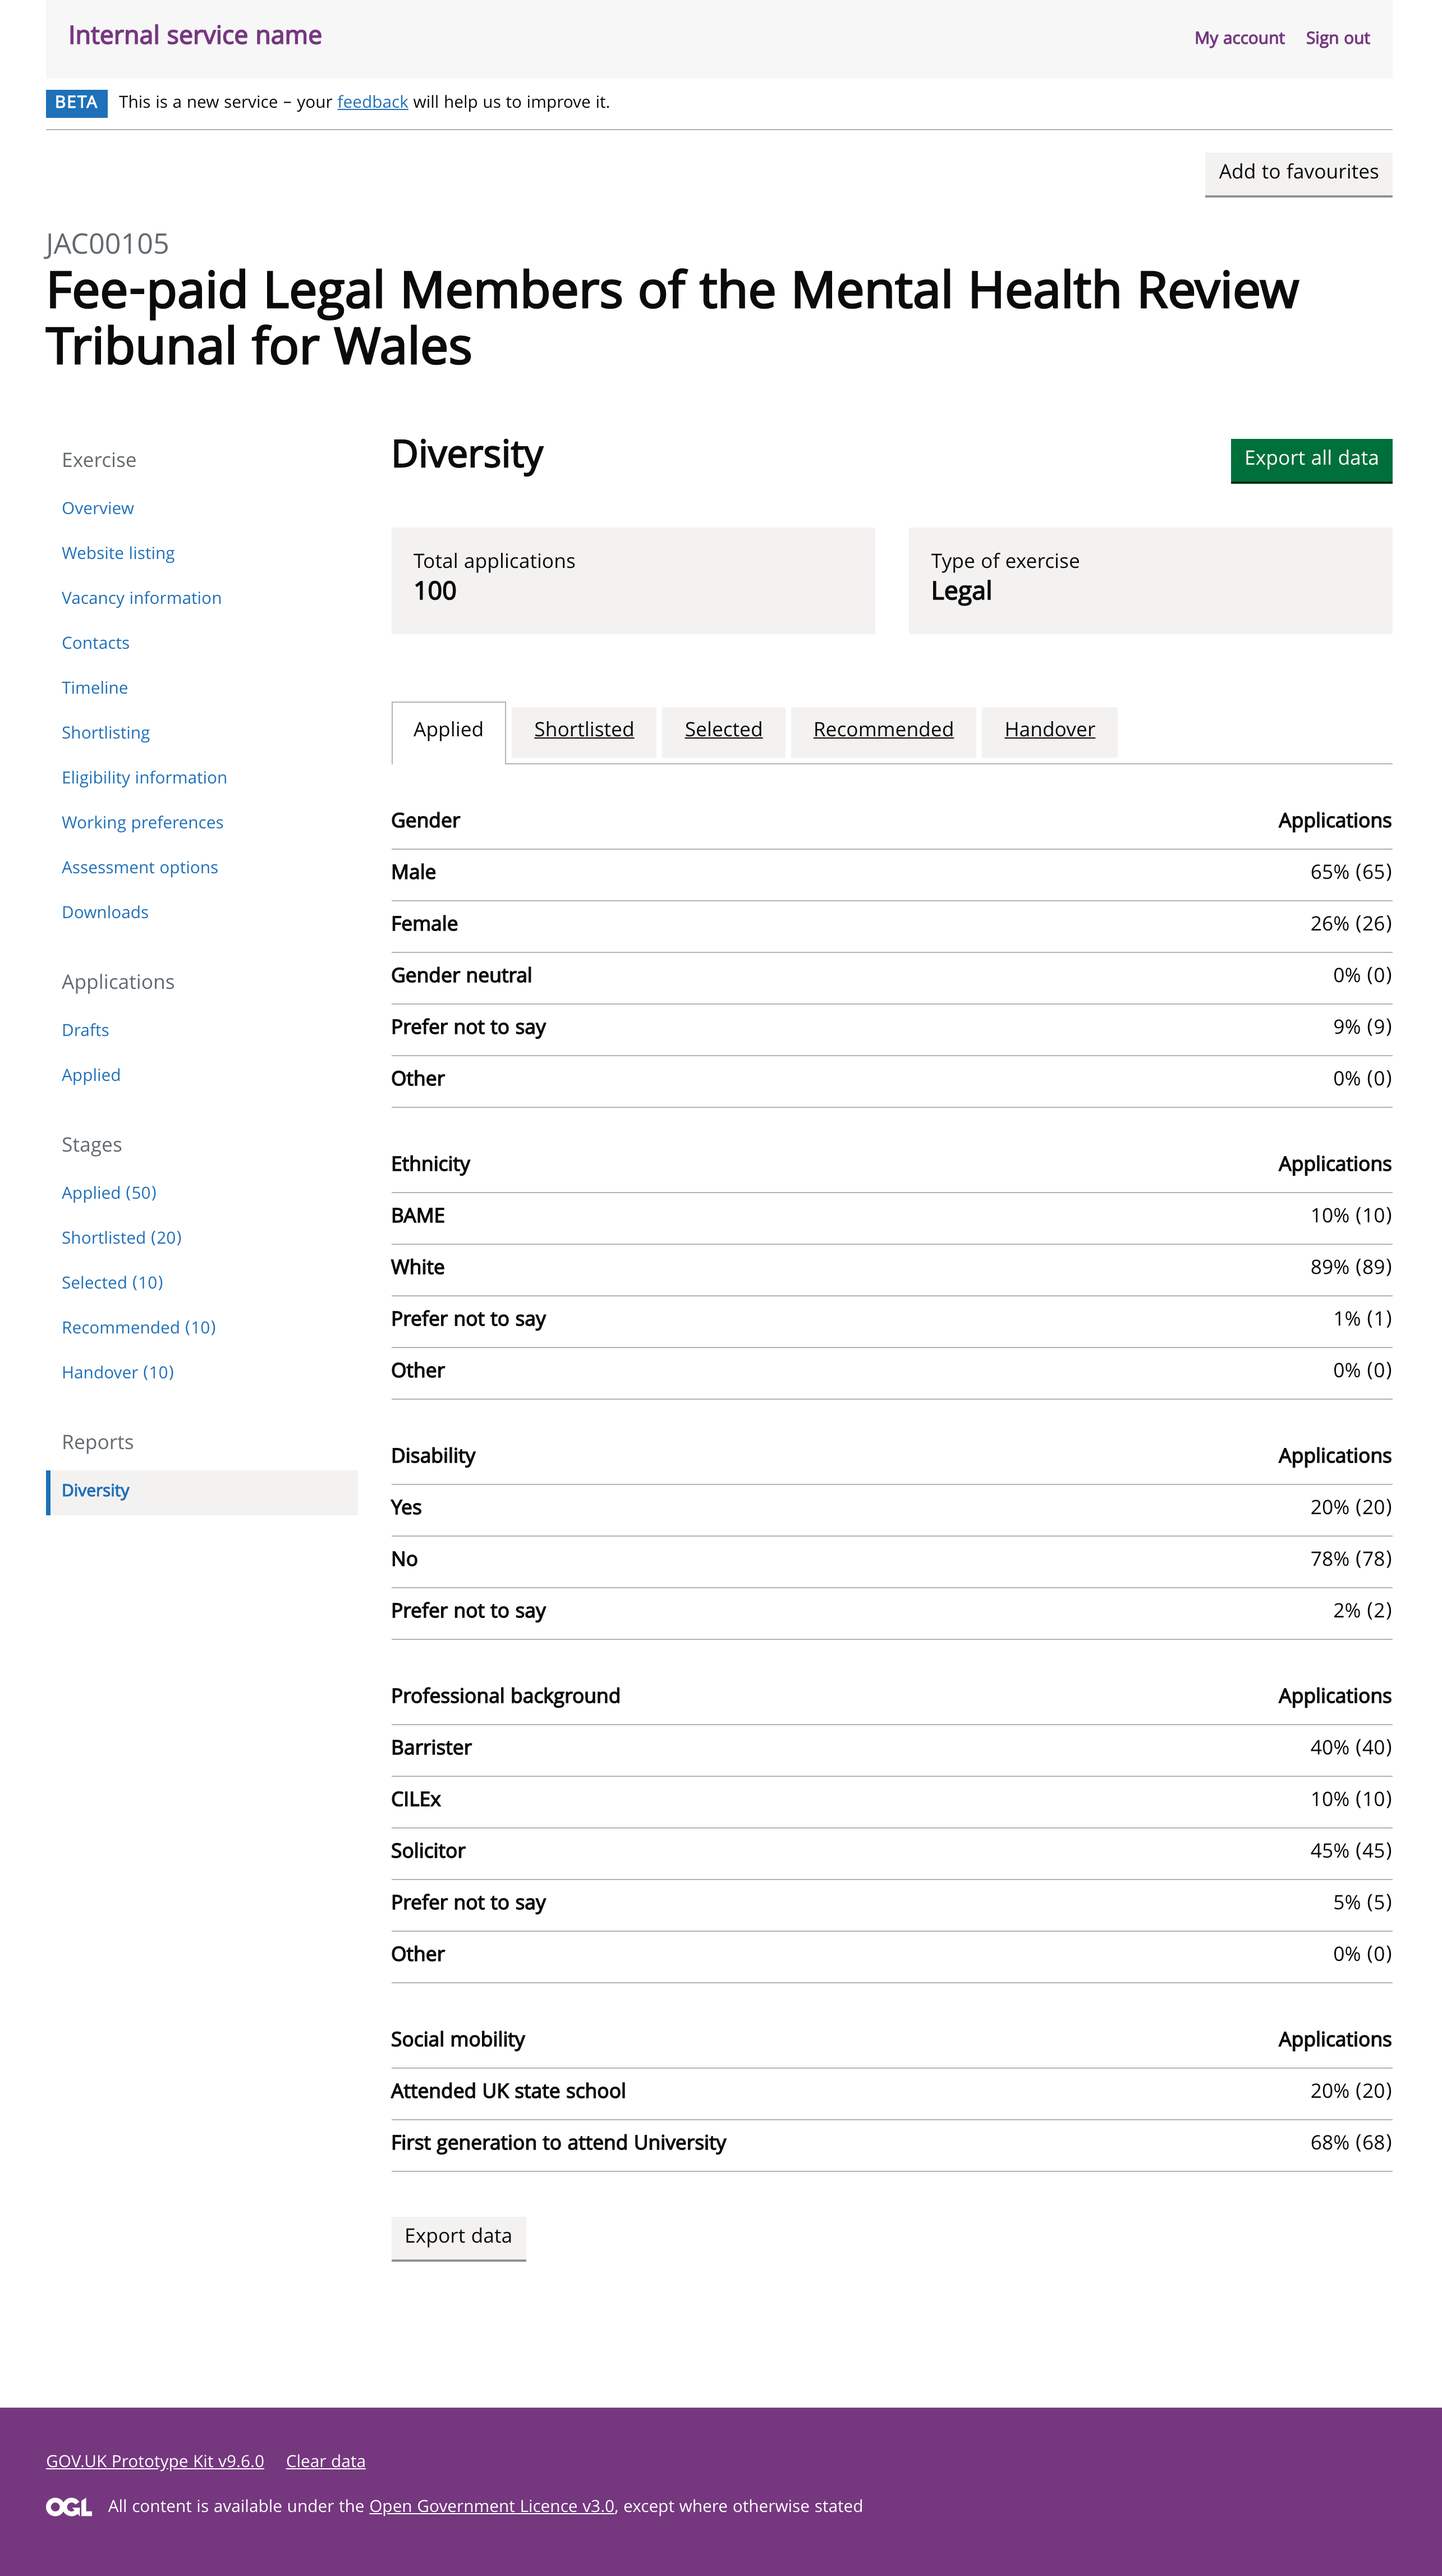
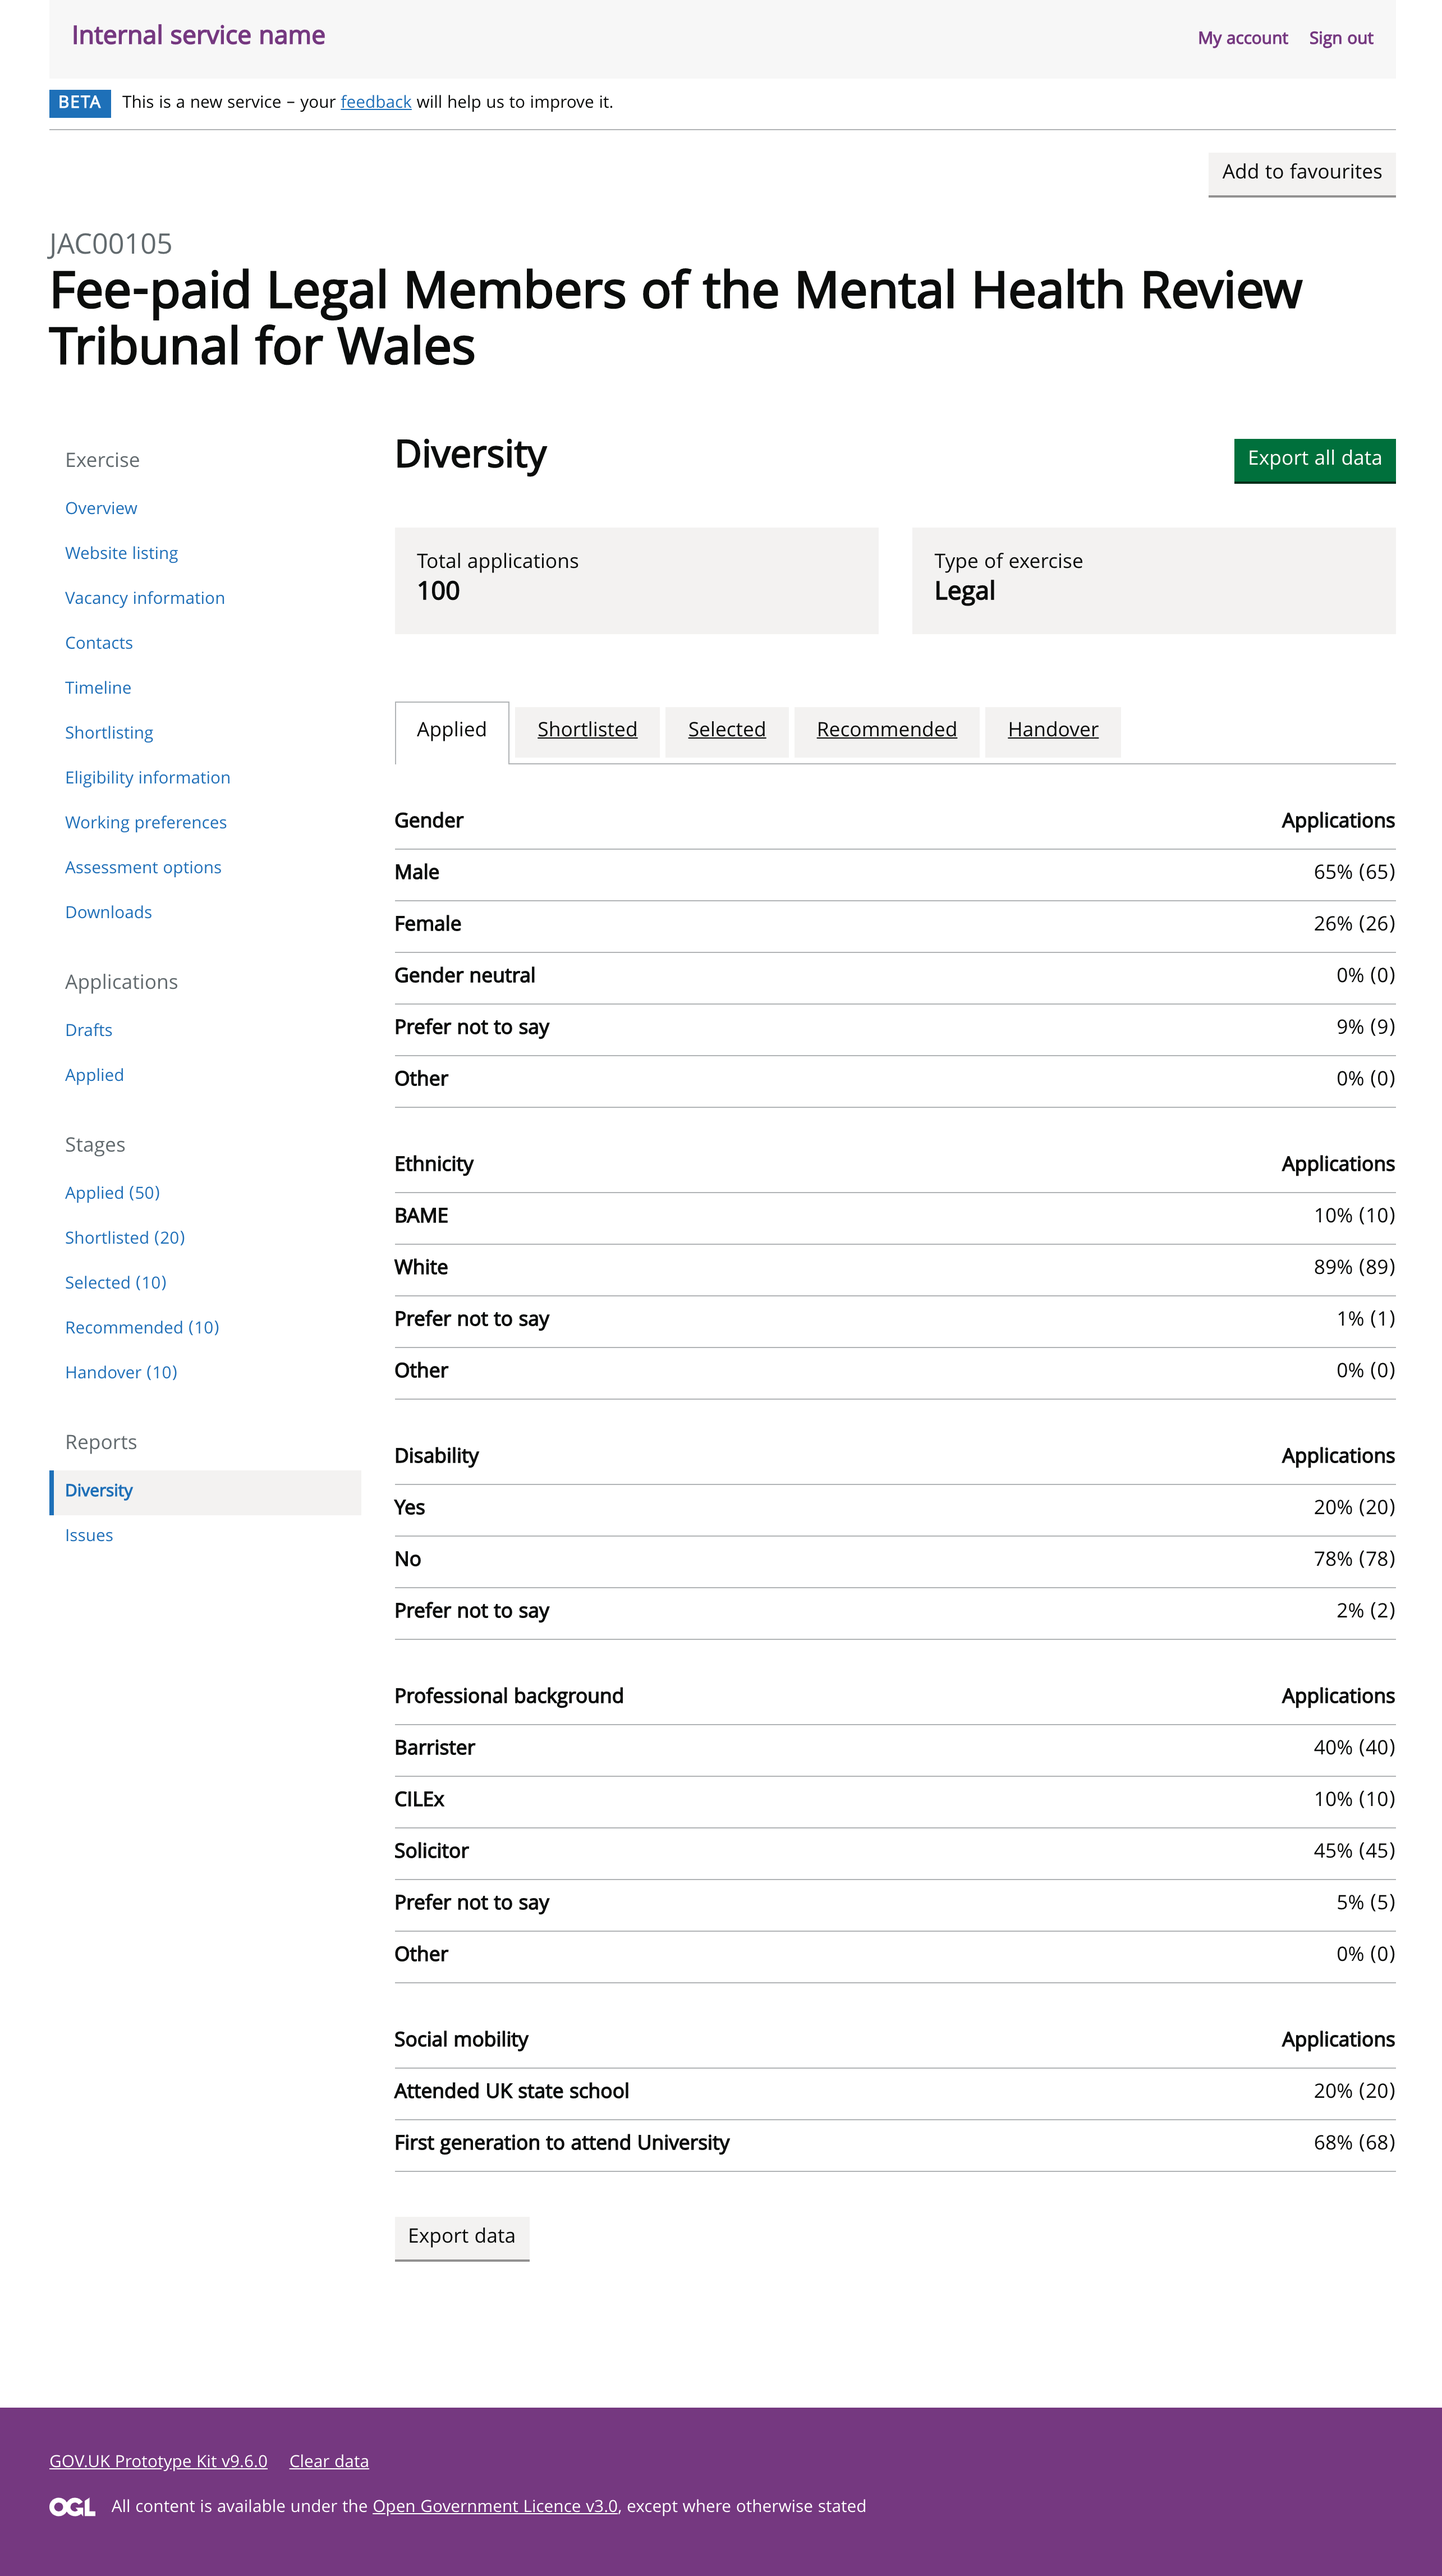
Updates to prototype

diff --git a/app/views/view-reports/v1/applied-jac00105-abc0001.html b/app/views/view-reports/v1/applied-jac00105-abc0001.html
@@ -183,14 +183,14 @@
 						<div class="govuk-summary-list__row">
 							<dt class="govuk-summary-list__key no-border govuk-!-width-two-thirds">&nbsp;</dt>
 							<dd class="govuk-summary-list__value">
-								<p class="govuk-body govuk-!-font-weight-bold">Date</p>
+								<p class="govuk-body govuk-!-font-weight-bold govuk-!-margin-bottom-0">Date</p>
 								<p class="govuk-body">9 March 2017</p>
 							</dd>
 						</div>
 						<div class="govuk-summary-list__row">
 							<dt class="govuk-summary-list__key govuk-!-width-two-thirds">&nbsp;</dt>
 							<dd class="govuk-summary-list__value">
-								<p class="govuk-body govuk-!-font-weight-bold">Declaration</p>
+								<p class="govuk-body govuk-!-font-weight-bold govuk-!-margin-bottom-0">Declaration</p>
 								<p class="govuk-body">SP30 3 penalty points and a fixed fine of £125.</p>
 							</dd>
 						</div>
@@ -500,6 +500,14 @@
 				</div>
 				<!-- Issues -->
 				<div class="govuk-tabs__panel" id="issues">
+
+					{% if data['add-comment'] %}
+					<div class="govuk-inset-text">
+						<p class="govuk-body">{{ data['issue-character-abc0001'] }}</p>
+					</div>
+					<p class="govuk-body">{{ data['add-comment'] }}</p>
+					<p class="govuk-body govuk-!-margin-bottom-9"><a href="comment">Edit comment</a></p>
+
 					<h3 class="govuk-heading-m">Character</h3>
 					<dl class="govuk-summary-list govuk-!-margin-bottom-9">
 						<div class="govuk-summary-list__row">
@@ -509,14 +517,43 @@
 						<div class="govuk-summary-list__row">
 							<dt class="govuk-summary-list__key no-border govuk-!-width-two-thirds">&nbsp;</dt>
 							<dd class="govuk-summary-list__value">
-								<p class="govuk-body govuk-!-font-weight-bold">Date</p>
+								<p class="govuk-body govuk-!-font-weight-bold govuk-!-margin-bottom-0">Date</p>
 								<p class="govuk-body">9 March 2017</p>
 							</dd>
 						</div>
 						<div class="govuk-summary-list__row">
 							<dt class="govuk-summary-list__key govuk-!-width-two-thirds">&nbsp;</dt>
 							<dd class="govuk-summary-list__value">
-								<p class="govuk-body govuk-!-font-weight-bold">Declaration</p>
+								<p class="govuk-body govuk-!-font-weight-bold govuk-!-margin-bottom-0">Declaration</p>
+								<p class="govuk-body">SP30 3 penalty points and a fixed fine of £125.</p>
+							</dd>
+						</div>
+					</dl>
+					<h3 class="govuk-heading-m">Eligibility</h3>
+					<dl class="govuk-summary-list govuk-!-margin-bottom-9">
+						<div class="govuk-summary-list__row">
+							<dt class="govuk-summary-list__key govuk-!-width-two-thirds">Citizenship</dt>
+							<dd class="govuk-summary-list__value">Canada</dd>
+						</div>
+					</dl>
+					{% else %}
+					<h3 class="govuk-heading-m">Character</h3>
+					<dl class="govuk-summary-list govuk-!-margin-bottom-9">
+						<div class="govuk-summary-list__row">
+							<dt class="govuk-summary-list__key no-border govuk-!-width-two-thirds">Has endorsements on their licence, or received any motoring fixed-penalty notices in the last 4 years</dt>
+							<dd class="govuk-summary-list__value">Yes</dd>
+						</div>
+						<div class="govuk-summary-list__row">
+							<dt class="govuk-summary-list__key no-border govuk-!-width-two-thirds">&nbsp;</dt>
+							<dd class="govuk-summary-list__value">
+								<p class="govuk-body govuk-!-font-weight-bold govuk-!-margin-bottom-0">Date</p>
+								<p class="govuk-body">9 March 2017</p>
+							</dd>
+						</div>
+						<div class="govuk-summary-list__row">
+							<dt class="govuk-summary-list__key govuk-!-width-two-thirds">&nbsp;</dt>
+							<dd class="govuk-summary-list__value">
+								<p class="govuk-body govuk-!-font-weight-bold govuk-!-margin-bottom-0">Declaration</p>
 								<p class="govuk-body">SP30 3 penalty points and a fixed fine of £125.</p>
 							</dd>
 						</div>
@@ -549,7 +586,8 @@
 							  </div>
 						</fieldset>
 					</div>
-					<button class="govuk-button" data-module="govuk-button">Continue</button> 
+					<button class="govuk-button" data-module="govuk-button">Continue</button>
+					{% endif %} 
 				</div>
 			</div>
 		</div>

diff --git a/app/views/view-process-applications/v1/user-feedback.html b/app/views/view-process-applications/v1/user-feedback.html
@@ -22,7 +22,7 @@
 		<h1 class="govuk-heading-l">User feedback session (consolidated)</h1>
 		<h2 class="govuk-heading-m">Exercise is live</h2>
 		<ul class="govuk-list govuk-list--bullet">
-			<li>Users were happy with the layout of the application page example</li>
+			<li>All users were happy with the layout of the application page example</li>
 			<li>For <code>Full information</code> tab:
 				<ul class="govuk-list govuk-list--bullet">
 					<li>For <code>Character information</code>, 1 user wasn't sure how this would be displayed, if a candidate had selected 'Yes'</li>
@@ -42,7 +42,7 @@
 		</ul>
 		<h2 class="govuk-heading-m govuk-!-margin-top-6">Exercise has now ended</h2>
 		<ul class="govuk-list govuk-list--bullet">
-			<li>All users were able to complete all 3 tasks, using the checkboxes and <code>Set status</code> button
+			<li>All users were able to complete the 3 tasks, using the checkboxes and <code>Set status</code> button
 				<ul class="govuk-list govuk-list--bullet">
 					<li>However 1 user clicked on the link and not the checkboxes when completing the individual task. They thought if it was only one candidate to select, then to use a link and if more than one then to use the checkboxes</li>
 					<li>The same user found the bulk feature useful and that you could ‘remove’ and see who you had added</li>
@@ -67,7 +67,7 @@
 		<ul class="govuk-list govuk-list--bullet">
 			<li>For <code>Applied (984 applications...</code> pages:
 				<ul class="govuk-list govuk-list--bullet">
-					<li>Most users were happy with the intended functionality for those two examples</li>
+					<li>All users were happy with the intended functionality for those two examples</li>
 					<li>1 user would like to sort by first and last name</li>
 					<li>1 user asked about doing an advanced search e.g. 'multiple names and status types' at the same time</li>
 				</ul>

diff --git a/app/views/index.html b/app/views/index.html
@@ -121,7 +121,7 @@
 				</ul>
 			</div>
 		</details>
-		<!-- <p class="govuk-body govuk-!-margin-top-0">Tested between 27 April to 1 May 2020<br /><a href="/view-process-applications/v1/user-feedback" class="govuk-link">User feedback session (consolidated)</a></p> -->
+		<p class="govuk-body govuk-!-margin-top-0">Tested between 27 to 30 April 2020<br /><a href="/view-process-applications/v1/user-feedback" class="govuk-link">User feedback session (consolidated)</a></p> 
 	</div>
 	<div class="govuk-grid-column-one-half">
 		<img src="/public/images/view-process-applications-index-page.png" class="img-border govuk-!-margin-top-6" />
@@ -138,7 +138,7 @@
 	<div class="govuk-grid-column-one-half">
 		<h1 class="govuk-heading-l govuk-!-margin-top-4">View reports</h1>
 		<h2 class="govuk-heading-m">Current version in progress</h2>
-		<details class="govuk-details" data-module="govuk-details">
+		<details class="govuk-details govuk-!-margin-bottom-2" data-module="govuk-details">
 			<summary class="govuk-details__summary">
 				<span class="govuk-details__summary-text">Version 1</span>
 			</summary>
@@ -146,7 +146,7 @@
 				<p class="govuk-body govuk-!-margin-top-0 govuk-!-margin-bottom-4"><a href="/view-reports/v1/" class="govuk-link">View prototype</a></p>
 			</div>
 		</details>
-		<!-- <p class="govuk-body govuk-!-margin-top-0">Tested between 27 April to 1 May 2020<br /><a href="/view-reports/v1/user-feedback" class="govuk-link">User feedback session (consolidated)</a></p> -->
+		<p class="govuk-body govuk-!-margin-top-0">Tested between 27 to 30 April 2020<br /><a href="/view-reports/v1/user-feedback" class="govuk-link">User feedback session (consolidated)</a></p> 
 	</div>
 	<div class="govuk-grid-column-one-half">
 		<img src="/public/images/view-reports-index-page.png" class="img-border govuk-!-margin-top-6" />

diff --git a/app/views/view-reports/v1/user-feedback.html b/app/views/view-reports/v1/user-feedback.html
@@ -22,7 +22,7 @@
 		<h1 class="govuk-heading-l">User feedback session (consolidated)</h1>
 		<h2 class="govuk-heading-m">Diversity</h2>
 		<ul class="govuk-list govuk-list--bullet">
-			<li>Users were happy with the layout of this page example</li>
+			<li>All users were happy with the layout of this page example</li>
 			<li>For <code>Professional background</code>: 
 				<ul class="govuk-list govuk-list--bullet">
 					<li>1 user questioned if the data was based on the applicants current or previous roles</li>
@@ -30,8 +30,10 @@
 				</ul>
 			</li>
 			<li>1 user mentioned if 'Merit list' had been factored into the future design for this page</li>
-			<li>1 user liked that the numbers were 'whole' and not decimal ones, as it's easy to copy and paste. They also mentioned about seeing only specific parts for the reports and not everything, per stage</li>
+			<li>1 user liked that the numbers were 'whole' and not decimal ones, as it's easy to copy and paste. They also mentioned that they would prefer to see only specific parts for the reports and not everything, per stage</li>
 		</ul>
+		<h2 class="govuk-heading-m govuk-!-margin-top-6">Issues</h2>
+		<p class="govuk-body">To be tested</p>
 	</div>
 </div>
 {% endblock %}

diff --git a/app/views/view-reports/v1/index.html b/app/views/view-reports/v1/index.html
@@ -87,6 +87,9 @@
 					<li class="moj-side-navigation__item moj-side-navigation__item--active">
 						<a href="index" aria-current="location">Diversity</a>
 					</li>
+					<li class="moj-side-navigation__item">
+						<a href="issues" aria-current="location">Issues</a>
+					</li>
 				</ul>
 			</nav>
 		</div>
